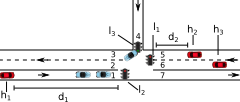
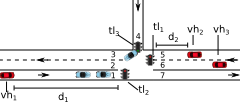
working

diff --git a/Article/src/Introduction.tex b/Article/src/Introduction.tex
@@ -1,7 +1,7 @@
 \section{Introduction}
 
 %motivation
-The physical laws of motion say that an accelerating car consumes more fuel than a car driving at a constant velocity. %TODO: Citation
+The physical laws of motion say that an accelerating vehicle consumes more fuel than a vehicle driving at a constant velocity. %TODO: Citation
 If one wants to safe fuel, one should therefore try to accelerate as little as possible. 
 However, several factors in todays traffic hinders drivers in driving at a constant velocity. 
 These are for example interlacing roads, blocking vehicles, traffic incidents and of cause traffic lights. 
@@ -10,18 +10,33 @@ It is esimated at 1.8 bilion danish kroner is lost on fuel each year on vehicles
 %the problem of traffic lights
 Traffic lights hinders the flow of traffic as it blocks vehicles arriving from one direction in order to allow other vehicles to drive through the intersection.
 Each direction of the intersection is given a time period in which vehicles are allowed to pass through the intersection. 
-From a drivers perspective it is only posible to guess when the light is going to change based on what he has seen so far. 
+From a drivers perspective it is only posible to guess when the light is going to change based on what has been seen so far. 
 
-Locking at Figure \ref{fig:Introduction:network} vehicle $h_2$ is approacing the intersection.
+Looking at Figure \ref{fig:Introduction:network} vehicle $\veh_2$ is approacing the intersection.
 %If he have spottet a red light for some time, it is likly that the signals are going to change soon. He can either, take the chance and keep driving at the same speed, until the last momment where he need to brake. Or he can slow down and limp toward the intersection and then maybe avoid a full stop at the traffic light. 
-Now assume that vehicle $h_2$ knows the distance $d_2$ where he have to stop for traffic light $l_1$. Then also assume that vehicle $h_2$ know that in $4$ seconds the traficligh $l_1$ will change to green. Now it is posible to calculate a speed for vehicle $h_2$ such that it drive the distance $d_2$ in $4$ seconds. Then by the time it reach the intersection the signal will have changed and thereby avoiding a full stop.
+Now assume that vehicle $\veh_2$ knows the distance $\dist_2$ where he has to stop for traffic light $\tl_1$. 
+Then also assume that vehicle $\veh_2$ knows that in $4$ seconds the traffic ligth $\tl_1$ will change to green. 
+Then it is posible to calculate a speed for vehicle $\veh_2$ such that it will drive the distance $\dist_2$ in $4$ seconds. 
+Now by the time it reaches the intersection the signal will have changed and thereby avoiding a full stop.
 
 %problem of not knowing how many other cars are wating in line
-The system proposed in this article is designed on the basis that not every vehicle will be using it. 
+The system proposed in this article, \tech, is designed on the basis that not every vehicle will be using it. 
 Because of this, we cannot rely on communication between vehicles and therefore we do not know how many vehicles will be waiting in line for a green light. %TODO this depents on access to induction loop data
-Hence we cannot predict the precise distance to the position at a traffic light where the driver must stop due to blocking cars. In Figure \ref{fig:Introduction:network} this can be observed as vehicle $h_1$ drives towards traffic light $l_2$. He believes that the distance to were he have to stop is the distance of $d_1$ however the two blue cars already wating in line, block's a part of the road.
+Hence we cannot predict the precise distance to the position at a traffic light where the driver must stop due to blocking cars. 
+In Figure \ref{fig:Introduction:network} this can be observed where vehicle $\veh_1$ drives towards traffic light $\tl_2$. 
+He believes that the distance to were he has to stop is the distance $\dist_1$, however, the two blue cars already waiting in line blocks a part of the road.
 
-Some traffic lights do not always show the same signal to vehicles going in diffrent directions where it be straight, left or right turn. We model this by having \textit{connections} in the intersection. Each lane have an uniqe identifier as shown in Figure \ref{fig:Introduction:network}. Each posible legal pass throug the intersection is then added to the \textit{connection table} as show in Table \ref{tab:Introduction:connectionTable}.
+%TODO: Think we should skip this section
+Some traffic lights do not always show the same signal to vehicles going in diffrent directions where it be straight, left or right turn. 
+We model this by having \textit{connections} in the intersection. Each lane have an unique identifier as shown in Figure \ref{fig:Introduction:network}. 
+Each possible legal pass through the intersection is then added to the \textit{connection table} as show in Table \ref{tab:Introduction:connectionTable}.
+
+Road authorities try to design traffic light signals such that the flow of traffic is maximised in all directions.
+This can be very difficult, especially in junctions with changing traffic density through out the day.
+Two main techinques are used in traffic lights today: pretimed traffic controllers, where the signals loop between red, yellow and green in a predefined pattern; and traffic actuated controllers, where approacing vehicles are detected by road-side detectors such that the signals can be adjusted to the current traffic flow.
+Traffic lights can also work togeather such that the flow of traffic can be maximised even futher. 
+\textit{Interconnected controllers} cooporate with other nearby traffic lights to create for example green waves.
+\textit{Agent controllers} is a more simple type of controller, that does not cooporate with other controllers.
 
 %Modern traffic lights have sensors known as \textit{induction loops} that can detect vehicles driving on the roads.
 %These sensors are used to regulate the signals in relation to the number of vehicles approaching the intersection \cite{Vejdir}. %TODO do we need this?
@@ -59,7 +74,8 @@ from & to \\ \hline
 %However, when we introduce induction loops that are are effected by vehicles ariving in an unpredicteble pattern, then the traffic light will also to some extent become unpredicteble. 
 
 %describe why we do simulation 
-The focus of this article is to investigate whether it is possible to reduce fuel consumption at traffic ligths by matching the speed to the traffic lights. We investigate this through simulations with real world map data, traffic data and traffic light programs, both with crossing traffic and road-side senors. %TODO check we do this
+The focus of this article is to investigate whether it is possible to reduce fuel consumption at traffic ligths by matching the speed to the traffic lights. 
+We investigate this through simulations with real world map data, traffic data and traffic light programs, both with crossing traffic and road-side senors. %TODO check we do this
 %To investigate the extent of this problem we create simulations based on real world map data, traffic data and traffic light programs. 
 We use the traffic simulator SUMO (Simulation of Urban Mobility)\cite{sumo} interfaced via TraCI (Traffic Control Interface)\cite{traci} which is a full scall microscopic traffic simulator.
 

diff --git a/Article/src/RelatedWork.tex b/Article/src/RelatedWork.tex
@@ -1,14 +1,7 @@
 \section{Related Work}
-%TODO: Rearange this section
+%TODO: Rearrange this section
 
 The main purpose of our work is to help drivers reduce their fuel consumption by adjusting driving speed to traffic lights.
-Road authorities try to design traffic light signals such that the flow of traffic is maximised in all directions.
-This can be very difficult, especially in junctions with changing traffic density through out the day.
-Two main techinques are used in traffic lights today: pretimed traffic controllers, where the signals loop between red, yellow and green in a predefined pattern; and traffic actuated controllers, where approacing vehicles are detected by road-side detectors such that the signals can be adjusted to the current traffic flow.
-The latter techinque has become more widespread in recent years. %TODO: Citation?
-Traffic lights can also work togeather such that the flow of traffic can be maximised even futher. 
-\textit{Interconnected controllers} cooporate with other nearby traffic lights to create for example green waves.
-\textit{Agent controllers} is a more simple type of controller, that does not cooporate with other controllers.
 
 The authors of \cite{VANETsim} have proposed an idea similar to ours, in that they evaluate whether drivers should accelerate or decelerate when approaching a traffic light.
 Similarly they use the simulator SUMO to simulate their methods. 
@@ -18,8 +11,6 @@ Their results are therefore based on a very simplified environment, where as our
 
 One method for designing traffic lights has been proposed in \cite{SOTL} that generates green waves based on wireless communication between vehicles and traffic lights. Their results show a decrease in waiting time by 50 \% in their comparisons.
 The authors of \cite{ITLC} also propose a mehtod for adjusting the traffic lights to the traffic. They use reinforcement learning and a voting system amongst vehicles at or near a traffic light to calculate the total gain of different light settings. Their results showed a reduction in both congestion and waiting time.
-
-
 
 Another related issue is to re-route drivers in order to avoid congestion. This way, drivers, will be able to drive more smoothly an hence reduce their fuel consumption. 
 Three strategies for re-routing drivers to avoid congestion has been proposed in \cite{congestionAvoidance}. 

diff --git a/Article/src/Model.tex b/Article/src/Model.tex
@@ -26,7 +26,7 @@ Every edge have a number of lanes $e.l \subseteq \mathbb{N} $
 
 \subsection{Traffic Light Phases}
 SUMO limits the allowed light settings to red, $r$, yellow, $y$ and green, $g$.
-A phase of a traffic light, $p$ is defined as $\langle(f_1, t_1),(f_2, t_2),\dots, (f_n, t_n) \rangle$ where the light setting is $f_i\in \{r, y, g\}$ for $t_i$ seconds.
+A phase of a traffic light, $p$ is defined as $\langle(f_1, t_1),(f_2, t_2),\dots, (f_n, t_n) \rangle$ where the light setting is $f_i\in \{red, yellow, green\}$ for $t_i$ seconds.
 The phases of a traffic light defines the light settings when possible sensors are not triggered.
 
 \subsection{Connections}
@@ -43,11 +43,11 @@ The vehicle starts at $e_1$ and moves along the sequence until $e_n$ has been re
 \end{comment}
 
 \subsection{Routes}
-A route, $T$, is a sequence of edges on the map, $\langle e_1, e_2, \dots e_n \rangle$, where $e_i.v_2 = e_{i+1}.v_1$ for $0\leq i< n$.
+A route, $r$, is a sequence of edges on the map, $\langle e_1, e_2, \dots e_n \rangle$, where $e_i.v_2 = e_{i+1}.v_1$ for $0\leq i< n$.
 The vehicle starts at $e_1$ and moves along the sequence until $e_n$ has been reached.
 
 \subsection{Vehicles}
-A vehicle, $h$, is an entity that moves along a route.
+A vehicle, $vh$, is an entity that moves along a route.
 Each vehicle has an identifier, $h.id$ a maximum speed, $h.s$, a constant acceleration, $h.a$ and deceleration, $h.d$.
 For simplicity we do not consider different drivering behaviours.
 We operate with two types of vehicles: cars and trucks. See Table \ref{table.vehicleTypes} for their specifications.

diff --git a/Article/src/UseCase.tex b/Article/src/UseCase.tex
@@ -10,7 +10,7 @@ The proposed techinque, \tech is tested in the simulator SUMO on a part of Hobro
 
 Hobrovej has seven cross sections, of which two have complicated light signals, two has simpel light signals, and three does not have any light signals. %TODO: too inconcrete!
 The network is an exact replica of Hobrovej, with the same distance between sections, the same number of lanes and connections and the same traffic light signals and phases.
-The routes and the number of vehicles in the network is also based on real observations from Hobrovej.
+The routes and the number of vehicles in the network is based on an OD matrix provided by the ???.
 We only model vehicles of the types detailed in Tabel~\ref{tabel:vehicleTypes}, and do not model neither pedestrians nor cyclists.
 
 In the following, we will focus our tests on the routes detailed in Table~\ref{tb:useCase:routes}.

diff --git a/Article/src/TestResults.tex b/Article/src/TestResults.tex
@@ -57,6 +57,6 @@ We do, however, still see a large fluctuation.
 \subsection{Time}
 It is interesting to investigate wether driving after \tech results in longer travel time than without.
 It takes on average 114 seconds to drive a route in our test without \tech, and when all vehicles drive with \tech it takes 111 seconds. 
-We therefore do not see a significant increase in travel time, in fact we see a very small decrease.
+We therefore do not see any significant differens in thees results.
 
 
